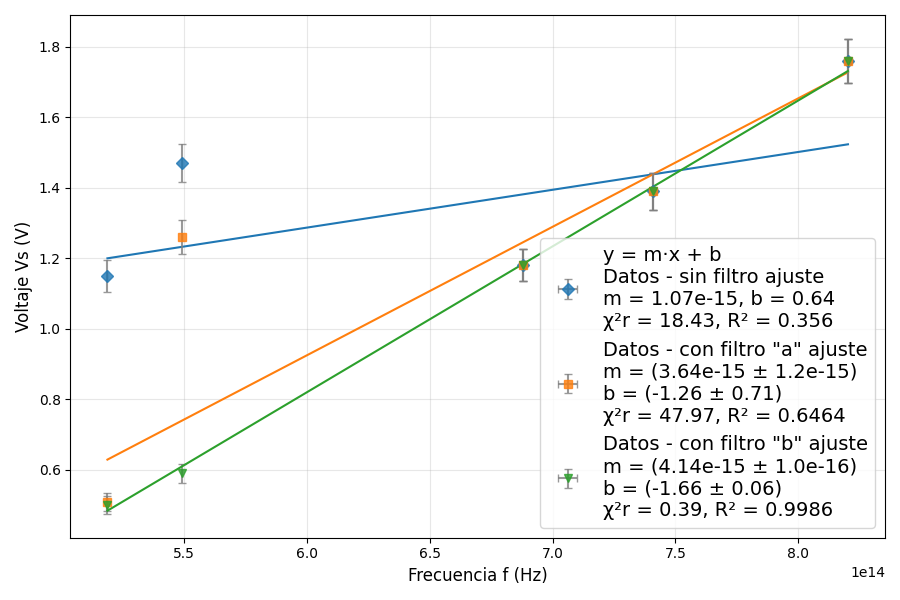
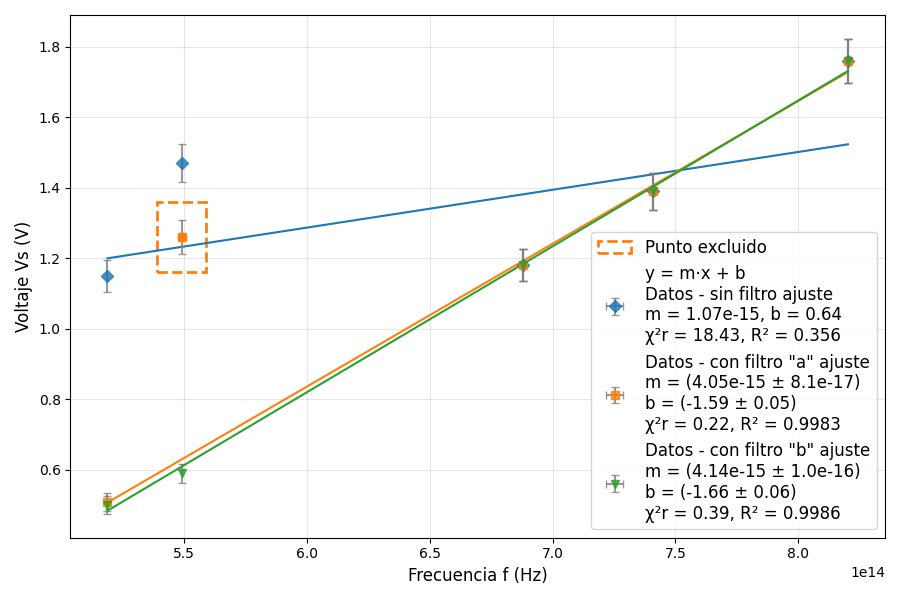
Agregado codigo experimento II y nuevo codigo experimento IV

diff --git a/Experimento III/datos2.py b/Experimento III/datos2.py
@@ -1,0 +1,144 @@
+import numpy as np
+import matplotlib.pyplot as plt
+from scipy.odr import ODR, Model, RealData
+
+# ----------------------------
+# Ajuste lineal ODR
+# ----------------------------
+def fit_lineal(Vs, f, scale=1e14):
+    Vs = np.array(Vs, dtype=float)
+    f = np.array(f, dtype=float)
+
+    # Errores
+    errV = 0.03 * Vs + 0.01
+    errF = np.full_like(f, 1e8, dtype=float)
+
+    # Escalado
+    f_scaled = f / scale
+    errF_scaled = errF / scale
+
+    # Modelo lineal
+    def f_lineal(beta, x):
+        m, b = beta
+        return m * x + b
+
+    modelo = Model(f_lineal)
+    data = RealData(f_scaled, Vs, sx=errF_scaled, sy=errV)
+    beta0 = [4.14e-15 * scale, 0.0]
+
+    odr = ODR(data, modelo, beta0=beta0)
+    out = odr.run()
+
+    # Parámetros ajustados
+    m_scaled, b = out.beta
+    sm_scaled, sb = out.sd_beta
+    m, sm = m_scaled / scale, sm_scaled / scale
+
+    # --- Métricas ---
+    y_pred = f_lineal(out.beta, f_scaled)
+    chi2 = np.sum(((Vs - y_pred) / errV) ** 2)
+    dof = len(Vs) - len(out.beta)
+    chi2_red = chi2 / dof if dof > 0 else np.nan
+    ss_res = np.sum((Vs - y_pred) ** 2)
+    ss_tot = np.sum((Vs - np.mean(Vs)) ** 2)
+    r2 = 1 - ss_res / ss_tot
+
+    return m, sm, b, sb, chi2_red, r2
+
+
+# ----------------------------
+# Función para graficar las 3 series
+# ----------------------------
+def analisis_tres_series(f, sin_filtro, con_filtro, pasco, scale=1e14, label="", nombres_colores=None):
+    datasets = {
+        "Datos - sin filtro": sin_filtro,
+        'Datos - con filtro "a"': con_filtro,
+        'Datos - con filtro "b"': pasco
+    }
+
+    colores = ["tab:blue", "tab:orange", "tab:green"]
+    marcadores = ["D", "s", "v"]       
+    tamanios = [6, 6, 6]               
+
+    plt.figure(figsize=(9, 6))
+
+    resultados = {}
+    funcion_label_agregada = False
+
+    for (nombre, Vs), color, marker, msize in zip(datasets.items(), colores, marcadores, tamanios):
+        f_plot, Vs_plot = f.copy(), Vs.copy()   # todos los puntos (para graficar)
+
+        # --- EXCLUSIÓN SOLO EN ORDEN -2 y solo en "con filtro a" ---
+        if label == "Orden -2" and nombre == 'Datos - con filtro "a"':
+            mask = ~((np.isclose(Vs, 1.26)) & (np.isclose(f, 5.48996E+14)))
+            f_fit, Vs_fit = f[mask], Vs[mask]
+        else:
+            f_fit, Vs_fit = f, Vs
+
+        # Ajuste
+        m, sm, b, sb, chi2_red, r2 = fit_lineal(Vs_fit, f_fit, scale=scale)
+        resultados[nombre] = {"m": m, "sm": sm, "b": b, "sb": sb, "chi2_red": chi2_red, "R2": r2}
+
+        # Etiquetas
+        if not funcion_label_agregada:
+            label_ajuste = f"y = m·x + b"
+            funcion_label_agregada = True
+        else:
+            label_ajuste = None
+
+        # Dibujar puntos con error
+        errV = 0.03 * np.array(Vs_plot) + 0.01
+        errF = np.full_like(f_plot, 1e8)
+        plt.errorbar(f_plot, Vs_plot, yerr=errV, xerr=errF,
+                     fmt=marker, markersize=msize,
+                     ecolor="gray", capsize=3,
+                     label=(f"{nombre} ajuste\n"
+                            f"m = ({m:.2e} ± {sm:.1e})\n"
+                            f"b = ({b:.2f} ± {sb:.2f})\n"
+                            f"χ²r = {chi2_red:.2f}, R² = {r2:.4f}" if label_ajuste is None
+                            else f"{label_ajuste}\n{nombre} ajuste\nm = {m:.2e}, b = {b:.2f}\nχ²r = {chi2_red:.2f}, R² = {r2:.3f}")
+                     , alpha=0.8, color=color)
+
+        # Dibujar ajuste
+        f_line = np.linspace(min(f), max(f), 200)
+        plt.plot(f_line, m*f_line + b, color=color)
+
+        # Si es el punto excluido, marcarlo con recuadro punteado en naranja
+        if label == "Orden -2" and nombre == 'Datos - con filtro "a"':
+            excluded_x, excluded_y = 5.48996E+14, 1.26
+            plt.scatter([excluded_x], [excluded_y], color=color, zorder=5)
+            plt.gca().add_patch(
+                plt.Rectangle((excluded_x-0.1e14, excluded_y-0.1),
+                              0.2e14, 0.2,
+                              fill=False, edgecolor=color, linestyle="--", linewidth=2,
+                              label="Punto excluido")
+            )
+
+    # Decoración
+    plt.title('', fontsize=14)
+    plt.xlabel("Frecuencia f (Hz)", fontsize=12)
+    plt.ylabel("Voltaje Vs (V)", fontsize=12)
+    plt.grid(True, alpha=0.3)
+    plt.legend(fontsize=12, loc="best")
+    plt.tight_layout()
+    plt.show()
+
+    return resultados
+
+
+# ----------------------------
+# Ejemplo de uso en Orden -2
+# ----------------------------
+data_ordenm2 = np.array([
+    [8.20264E+14, 1.76, 1.76, 1.76],
+    [7.40858E+14, 1.39, 1.39, 1.39],
+    [6.87858E+14, 1.18, 1.18, 1.18],
+    [5.48996E+14, 1.47, 1.26, 0.59],  
+    [5.18672E+14, 1.15, 0.51, 0.50]
+])
+frecuencias_m2  = data_ordenm2[:, 0]
+sin_filtro_m2   = data_ordenm2[:, 1]
+con_filtro_m2   = data_ordenm2[:, 2]
+filtro_pasco_m2 = data_ordenm2[:, 3]
+
+resultados_ordenm2 = analisis_tres_series(frecuencias_m2, sin_filtro_m2, con_filtro_m2, filtro_pasco_m2, label="Orden -2")

diff --git a/Experimento II/datos.py b/Experimento II/datos.py
@@ -1,0 +1,143 @@
+import pandas as pd
+import numpy as np
+import matplotlib.pyplot as plt
+from scipy.odr import ODR, Model, RealData
+from matplotlib.lines import Line2D
+# =======================
+# Parámetros conocidos
+# =======================
+lambda0 = 9.50e-07          # Longitud de onda [m]
+c = 299792458               # Velocidad de la luz [m/s]
+f = 3.16e14                 # Frecuencia de la onda [Hz]
+k = 1.3807*10**(-23)
+# =======================
+# Función lineal con ordenada al origen
+# =======================
+def f_lineal(beta, x):
+    m, b = beta
+    return m * x + b
+
+modelo = Model(f_lineal)
+
+# =======================
+# Función de análisis
+# =======================
+def analisis(Tcrudo, Vcrudo, errTCrudo=None, errVCrudo=None):
+    Tcrudo = np.asarray(Tcrudo, dtype=float)
+    Vcrudo = np.asarray(Vcrudo, dtype=float)
+
+    # errores
+    if errTCrudo is None:
+        errT = np.full_like(Tcrudo, 1e-9)
+    else:
+        errT = np.asarray(errTCrudo, dtype=float) / (Tcrudo**2)
+
+    if errVCrudo is None:
+        errV = np.full_like(Vcrudo, 0.01)
+    else:
+        errV = np.asarray(errVCrudo, dtype=float) / Vcrudo
+
+    # variables transformadas
+    T = 1.0 / Tcrudo
+    V = np.log(Vcrudo)
+
+    # ODR
+    data = RealData(T, V, sx=errT, sy=errV)
+    beta0 = [1.0, 0.0]
+    odr = ODR(data, modelo, beta0=beta0)
+    out = odr.run()
+
+    m, b = out.beta
+    sm, sb = out.sd_beta
+    y_pred = f_lineal(out.beta, T)
+
+    # R²
+    ss_res = np.sum((V - y_pred) ** 2)
+    ss_tot = np.sum((V - np.mean(V)) ** 2)
+    r2 = 1 - ss_res / ss_tot
+
+    # h
+    planck = -(m * k) / f
+    splanck = (k * sm) / f
+
+    # --- ploteo ---
+    plt.figure(figsize=(9, 6))
+
+    # puntos con errorbar → este handle va a la leyenda
+    puntos = plt.errorbar(T, V, xerr=errT, yerr=errV,
+                          fmt='o', color="orange", ecolor="gray",
+                          capsize=3, label="Puntos experimentales")
+
+    # línea de ajuste (proxy para leyenda)
+    plt.plot(T, y_pred, color='red', linewidth=1.5)
+    line_proxy = Line2D([0], [0], color='red', linewidth=1.5)
+
+    # texto extra (proxy vacío)
+    text_proxy = Line2D([], [], linestyle='None')
+
+    # labels
+    label_line   = f"Ajuste lineal: y = {m:.2e} x + {b:.2f}\nR² = {r2:.4f}"
+    label_htext  = f"h = ({planck:.3e} ± {splanck:.1e}) J·s"
+
+    # leyenda
+    plt.legend(handles=[puntos, line_proxy, text_proxy],
+               labels=[puntos.get_label(), label_line, label_htext],
+               loc='best', fontsize=12)
+
+    plt.xlabel("1/T (1/K)")
+    plt.ylabel("ln(V)")
+    plt.ticklabel_format(style='sci', axis='x', scilimits=(0, 0))
+    plt.grid(True, which="both", linestyle="--", alpha=0.4)  # grillado
+
+    plt.tight_layout()
+    plt.show()
+
+    # salida consola
+    print("Resultados del ajuste:")
+    print(f"Pendiente m = {m:.5e} ± {sm:.4e}")
+    print(f"Ordenada b  = {b:.5e} ± {sb:.1e}")
+    print(f"Planck h = {planck:.5e} ± {splanck:.1e}")
+
+# Lampara 1 45W
+# Voltaje (V)
+
+# =========================
+# Lámpara 1 - 45W
+# =========================
+V = np.array([0.176, 0.268, 0.383, 0.514, 0.681,
+              0.876, 1.081, 1.563, 1.843, 2.468, 2.805])
+errV = np.array([0.00728, 0.01004, 0.01349, 0.01742, 0.02243,
+                 0.02828, 0.03443, 0.04889, 0.05729, 0.07604, 0.08615])
+T = np.array([1739.661181, 1831.262967, 1917.775017, 2002.038683, 2072.332904,
+              2140.018044, 2208.344901, 2334.020642, 2391.106121, 2500.65497, 2541.56139])
+errT = np.array([43.3, 45.3, 47.2, 49.1, 50.7,
+                 52.2, 53.8, 56.6, 58.0, 60.5, 61.4])
+analisis(T, V, errT, errV)
+
+# =========================
+# Lámpara 2 - 60W
+# =========================
+V = np.array([0.288, 0.435, 0.616, 0.838, 1.077, 1.359,
+              1.675, 2.037, 2.386, 2.806, 3.278, 3.716, 4.217])
+errV = np.array([0.01064, 0.01505, 0.02048, 0.02714, 0.03431, 0.04277,
+                 0.05225, 0.06311, 0.07358, 0.08618, 0.10034, 0.11348, 0.12851])
+T = np.array([1750.89558, 1784.244081, 1921.115603, 1993.349518,
+              2068.611716, 2135.660416, 2200.460202, 2241.900012, 2321.388777,
+              2375.146919, 2426.108409, 2480.28932, 2528.959828])
+errT = np.array([43.6, 44.1, 47.3, 48.9, 50.6, 52.1,
+                 53.6, 54.5, 56.3, 57.6, 58.7, 60.0, 61.1])
+analisis(T, V, errT, errV)
+
+# =========================
+# Lámpara 3 - 75W
+# =========================
+V = np.array([0.395, 0.594, 0.824, 1.105, 1.42, 1.774,
+              2.172, 2.605, 3.099, 3.625, 4.169, 4.734, 5.38])
+errV = np.array([0.01385, 0.01982, 0.02672, 0.03515, 0.0446, 0.05522,
+                 0.06716, 0.08015, 0.09497, 0.11075, 0.12707, 0.14402, 0.1634])
+T = np.array([1846.7, 1933.2, 2019.8, 2096.6, 2170.2, 2240.8,
+              2308.4, 2371.6, 2432.2, 2487.8, 2546.8, 2602.3, 2653.2])
+errT = np.array([46.0, 47.8, 49.7, 51.4, 53.1, 54.7,
+                 56.2, 57.7, 59.0, 60.3, 61.7, 63.0, 64.1])
+analisis(T, V, errT, errV)
+
